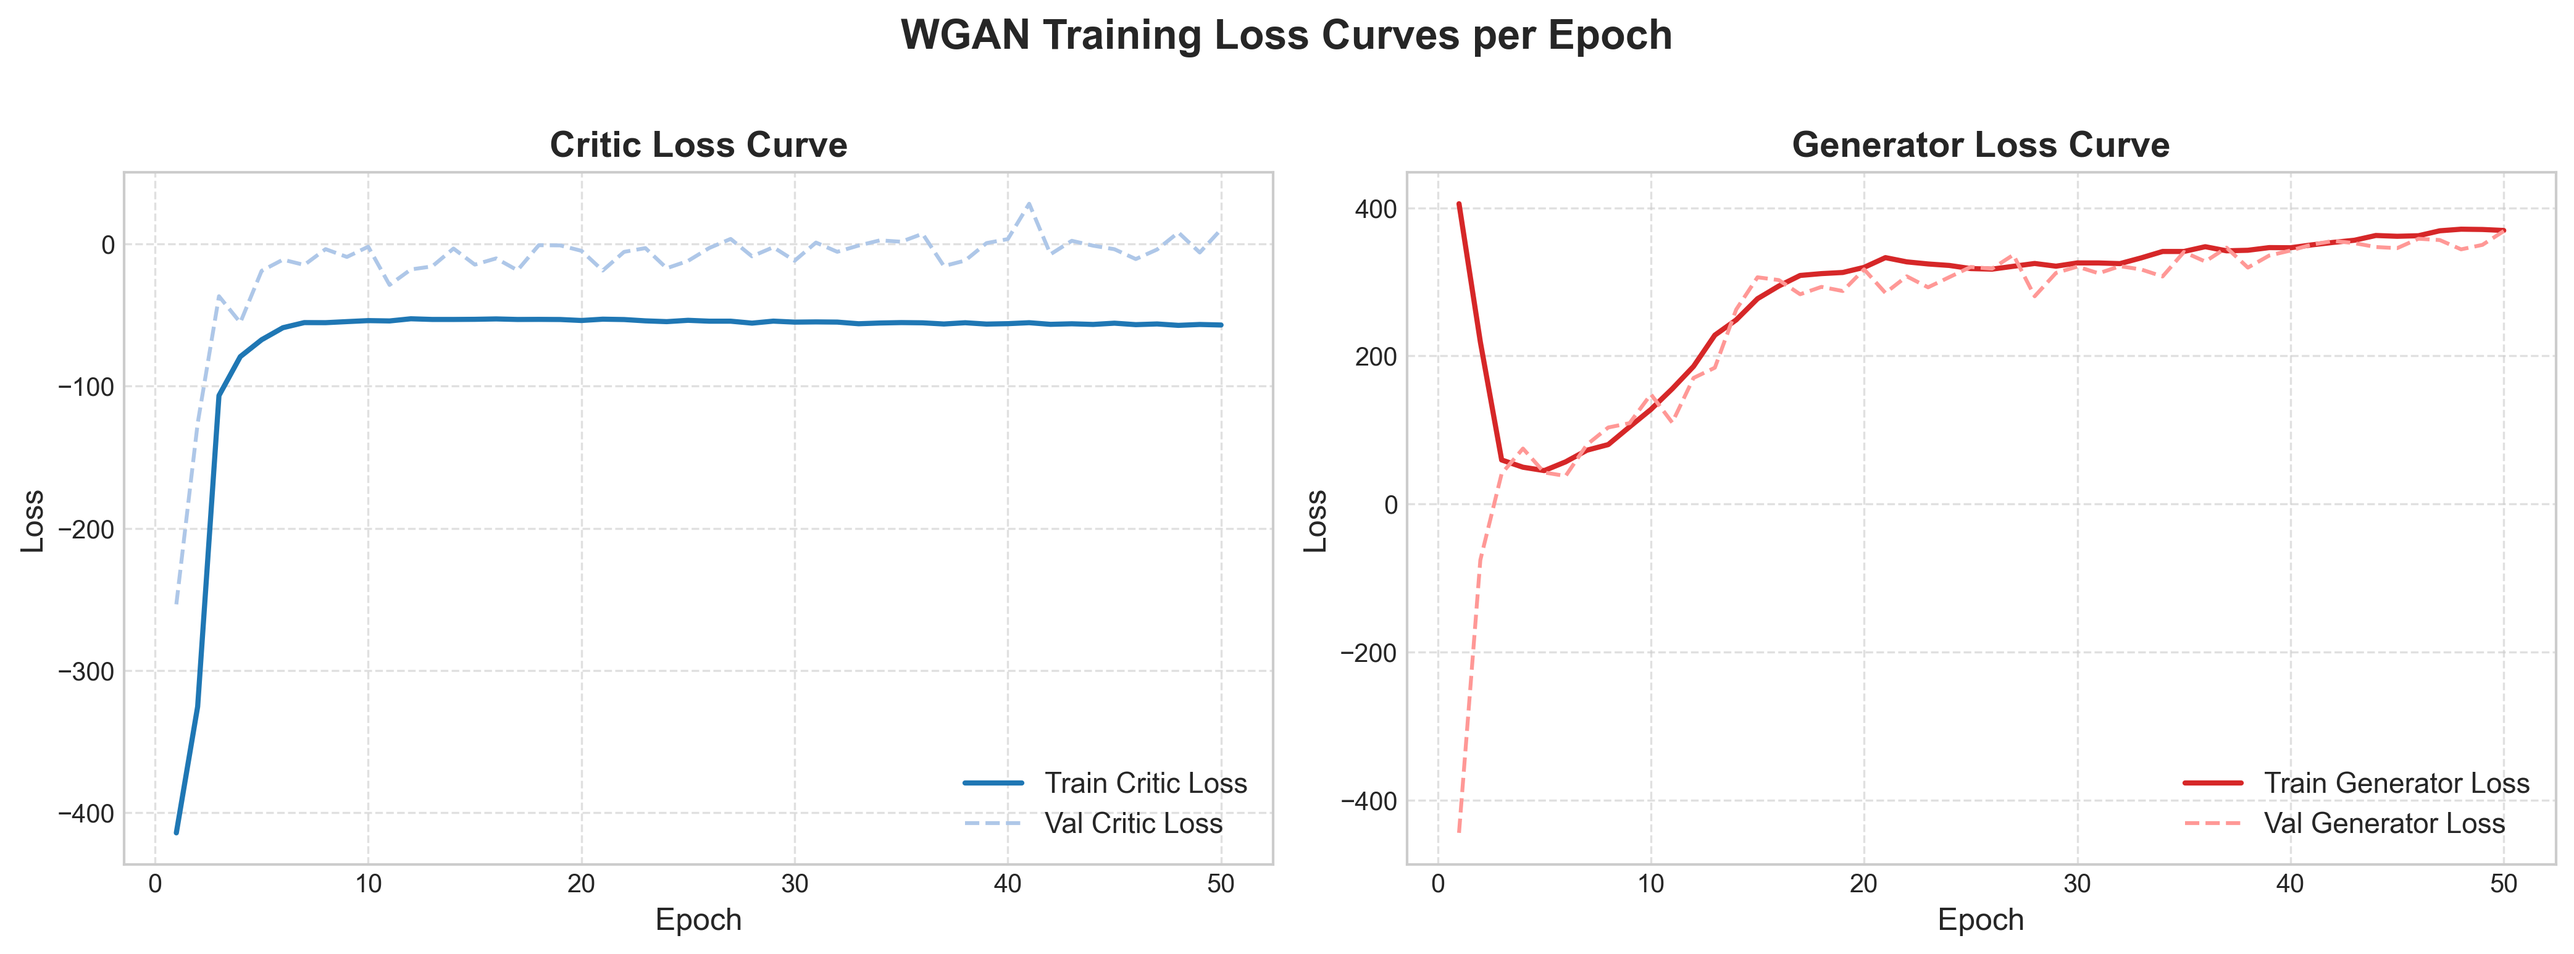
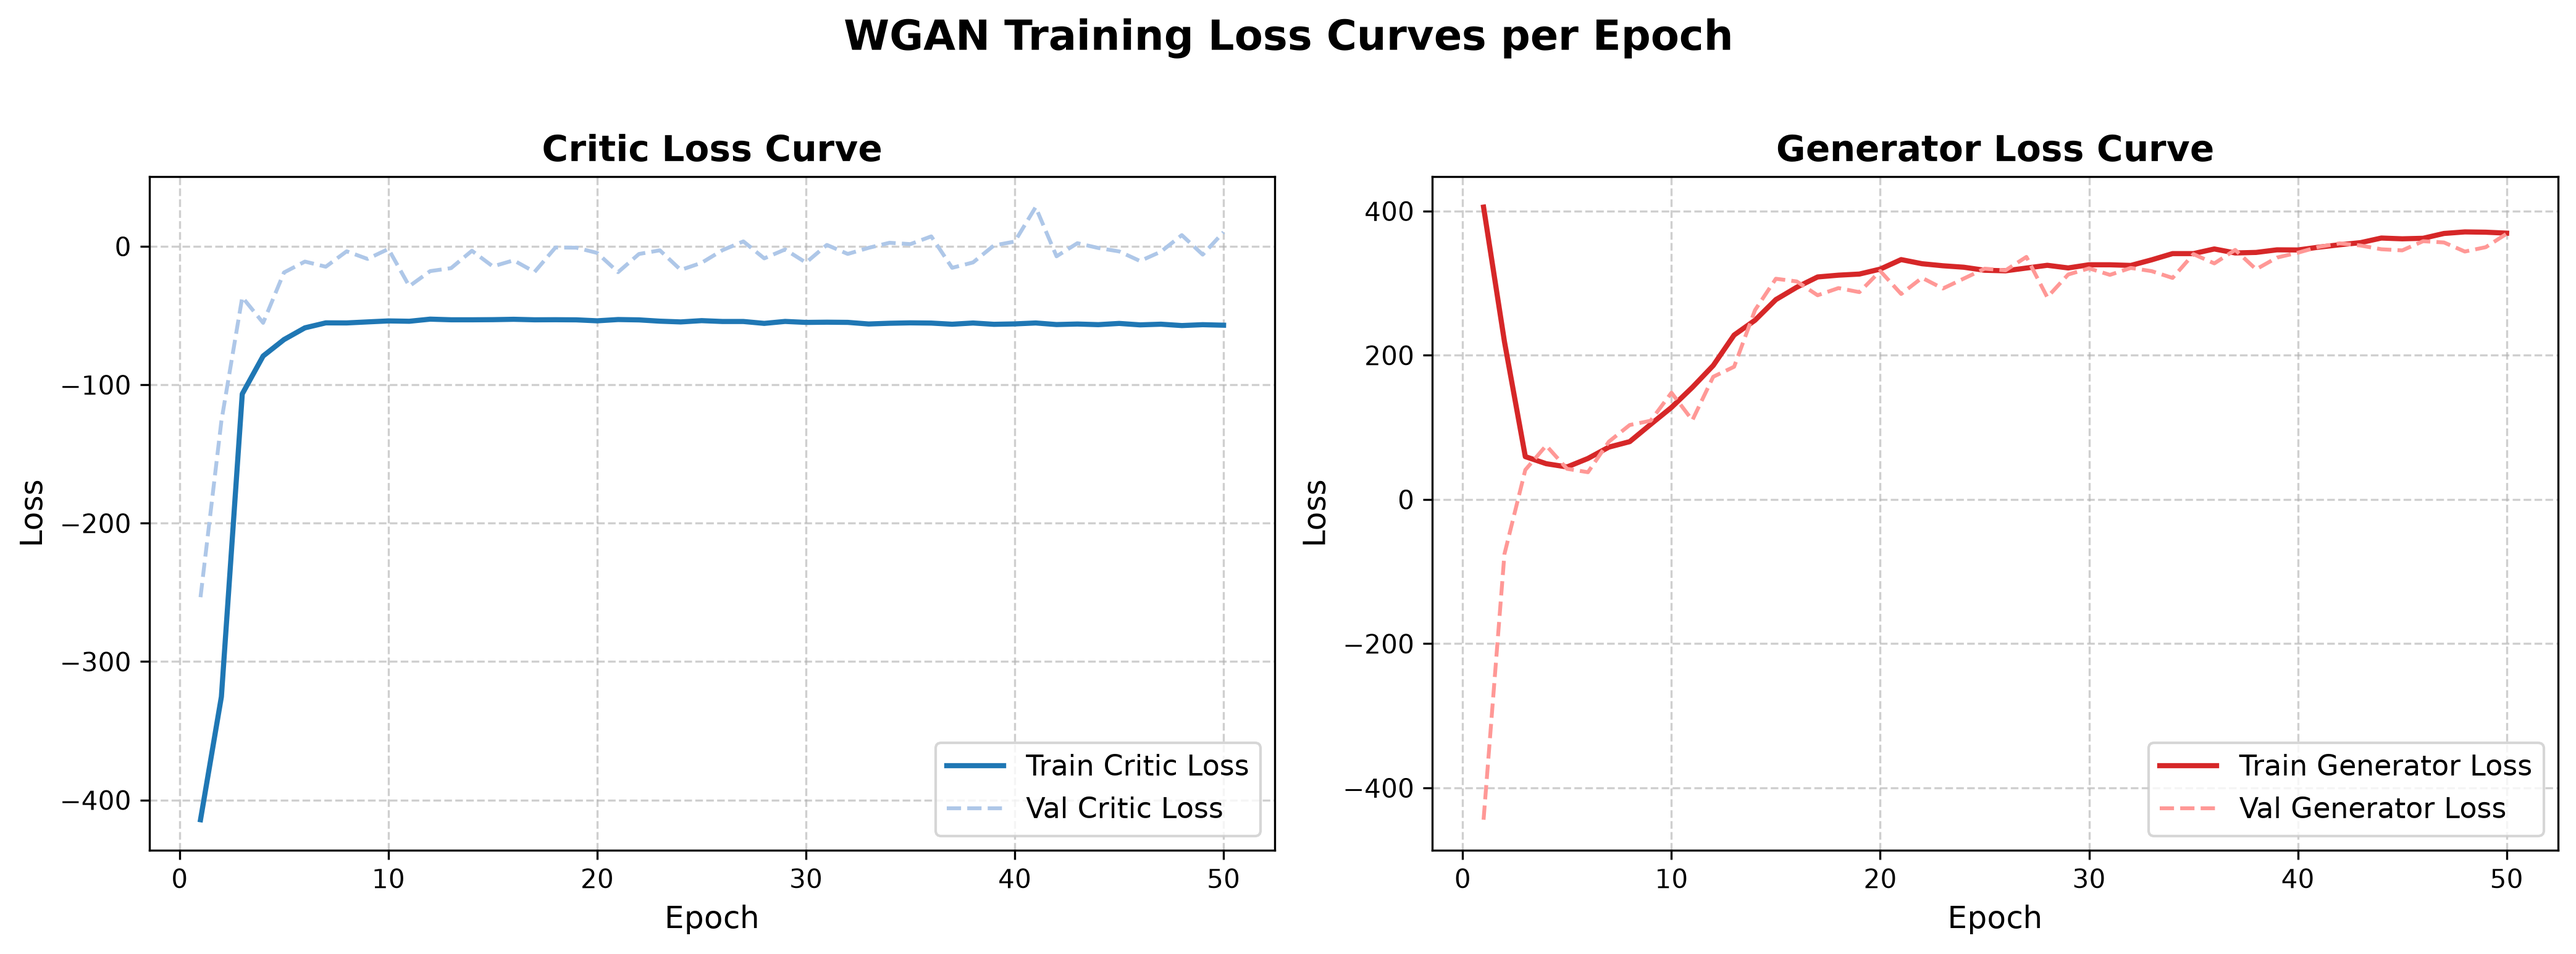
refactoring: plot style change, file relocations

diff --git a/recognition/WGAN_s5041698/plot_training_curves.py b/recognition/WGAN_s5041698/plot_training_curves.py
@@ -10,8 +10,6 @@ def plot_training_curves(csv_path: str, output_path: str = None):
     # Load metrics
     df = pd.read_csv(csv_path)
 
-    # Set up matplotlib style/figure
-    plt.style.use("seaborn-v0_8-whitegrid" if "seaborn-v0_8-whitegrid" in plt.style.available else "default")
     fig, axes = plt.subplots(1, 2, figsize=(14, 5), dpi=300)
 
     # Critic Loss Subplot
